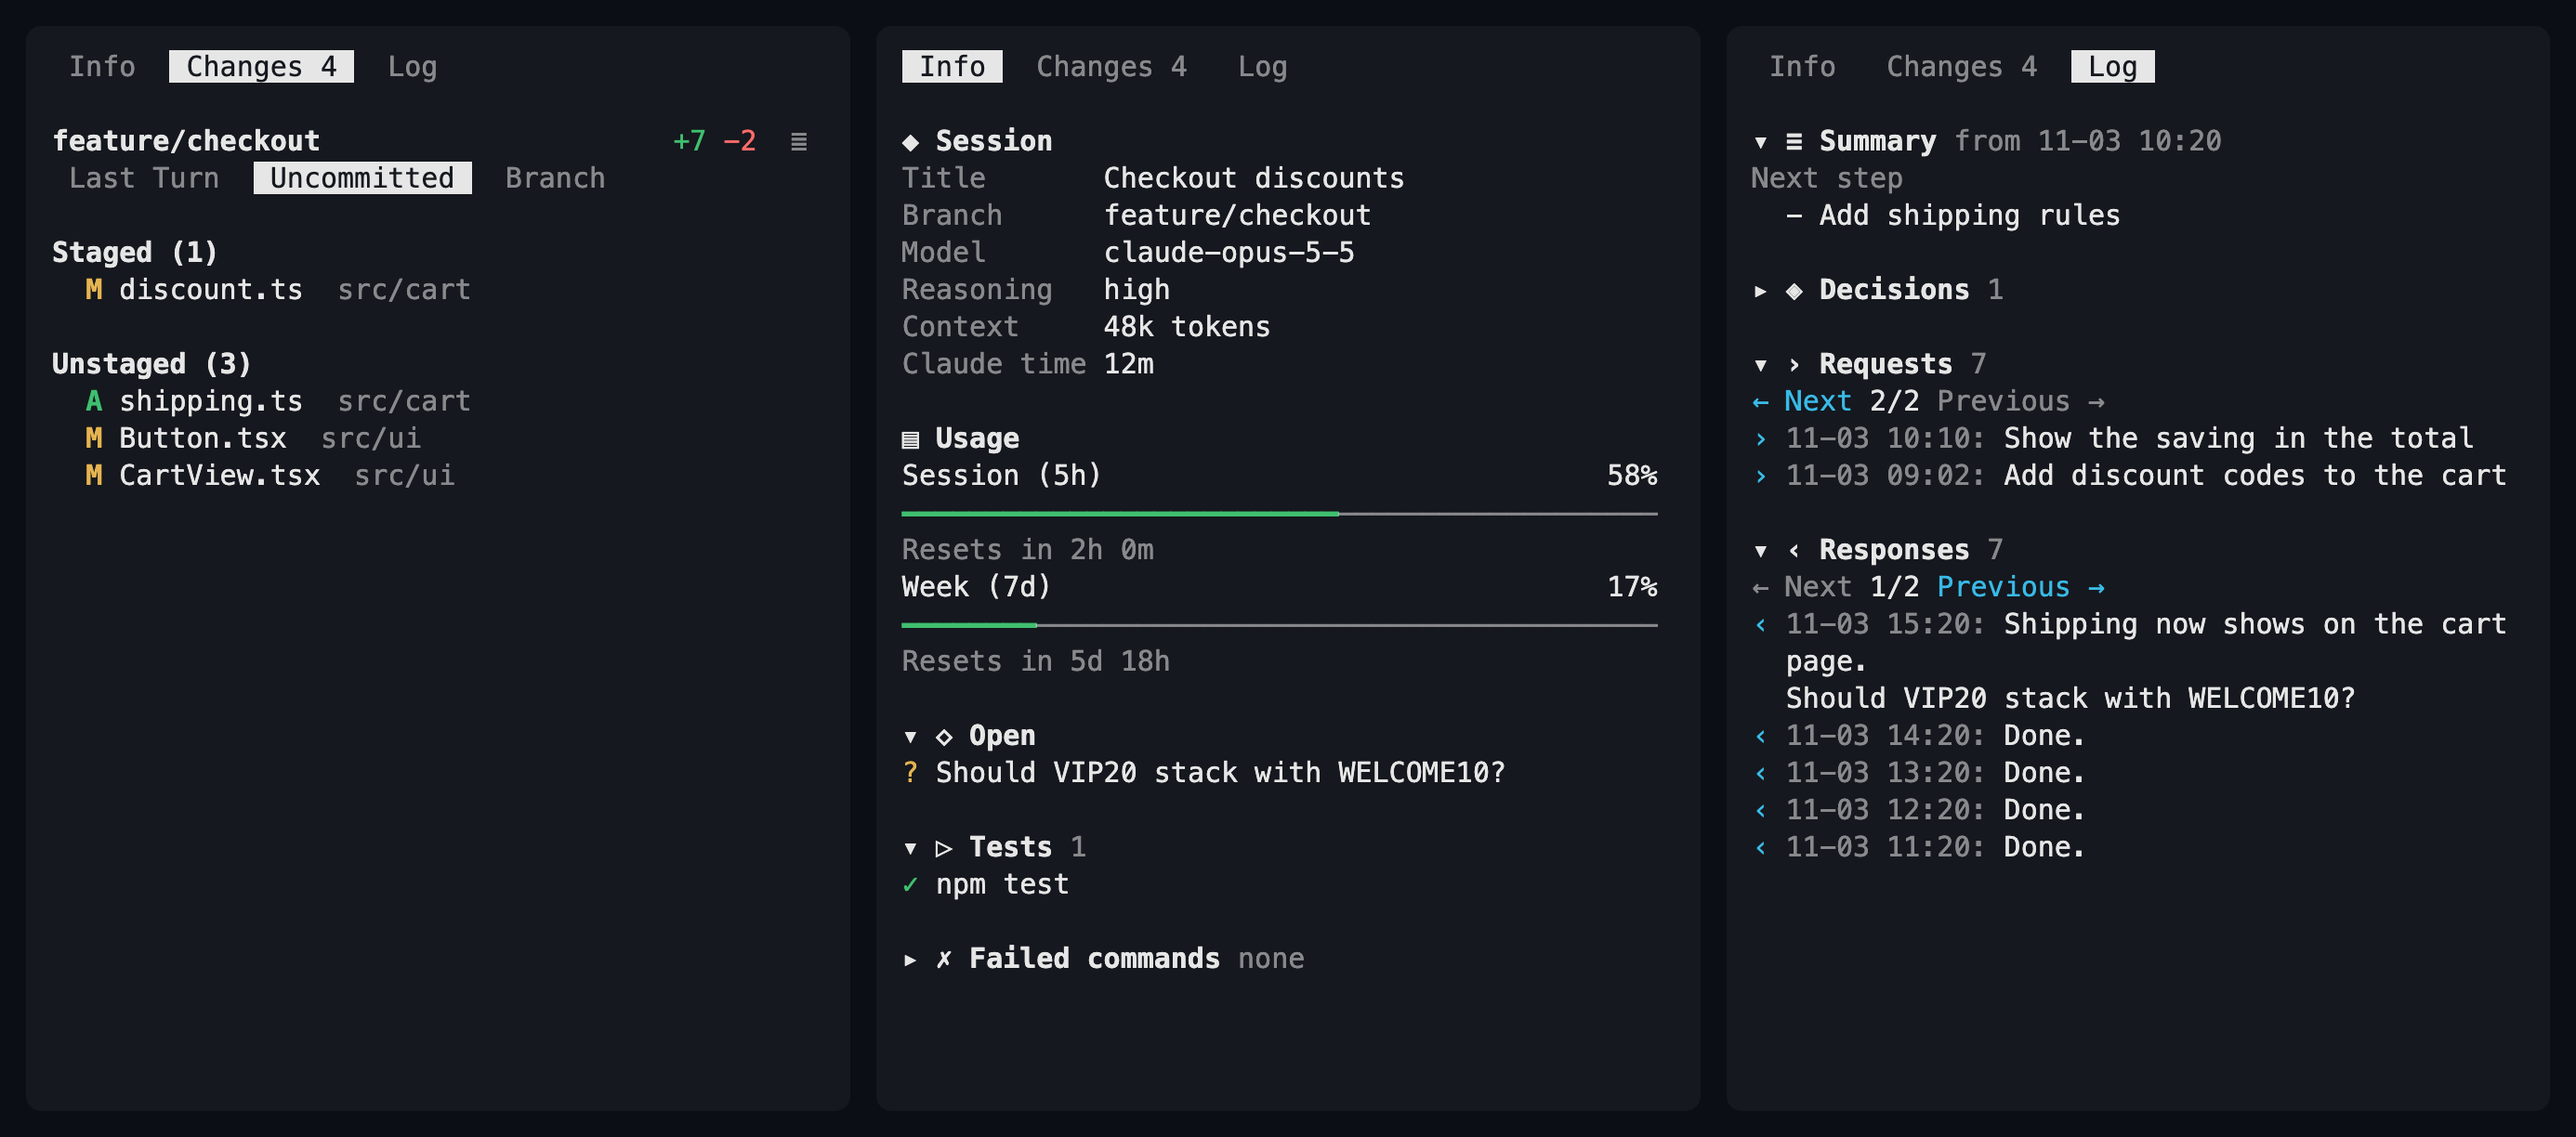
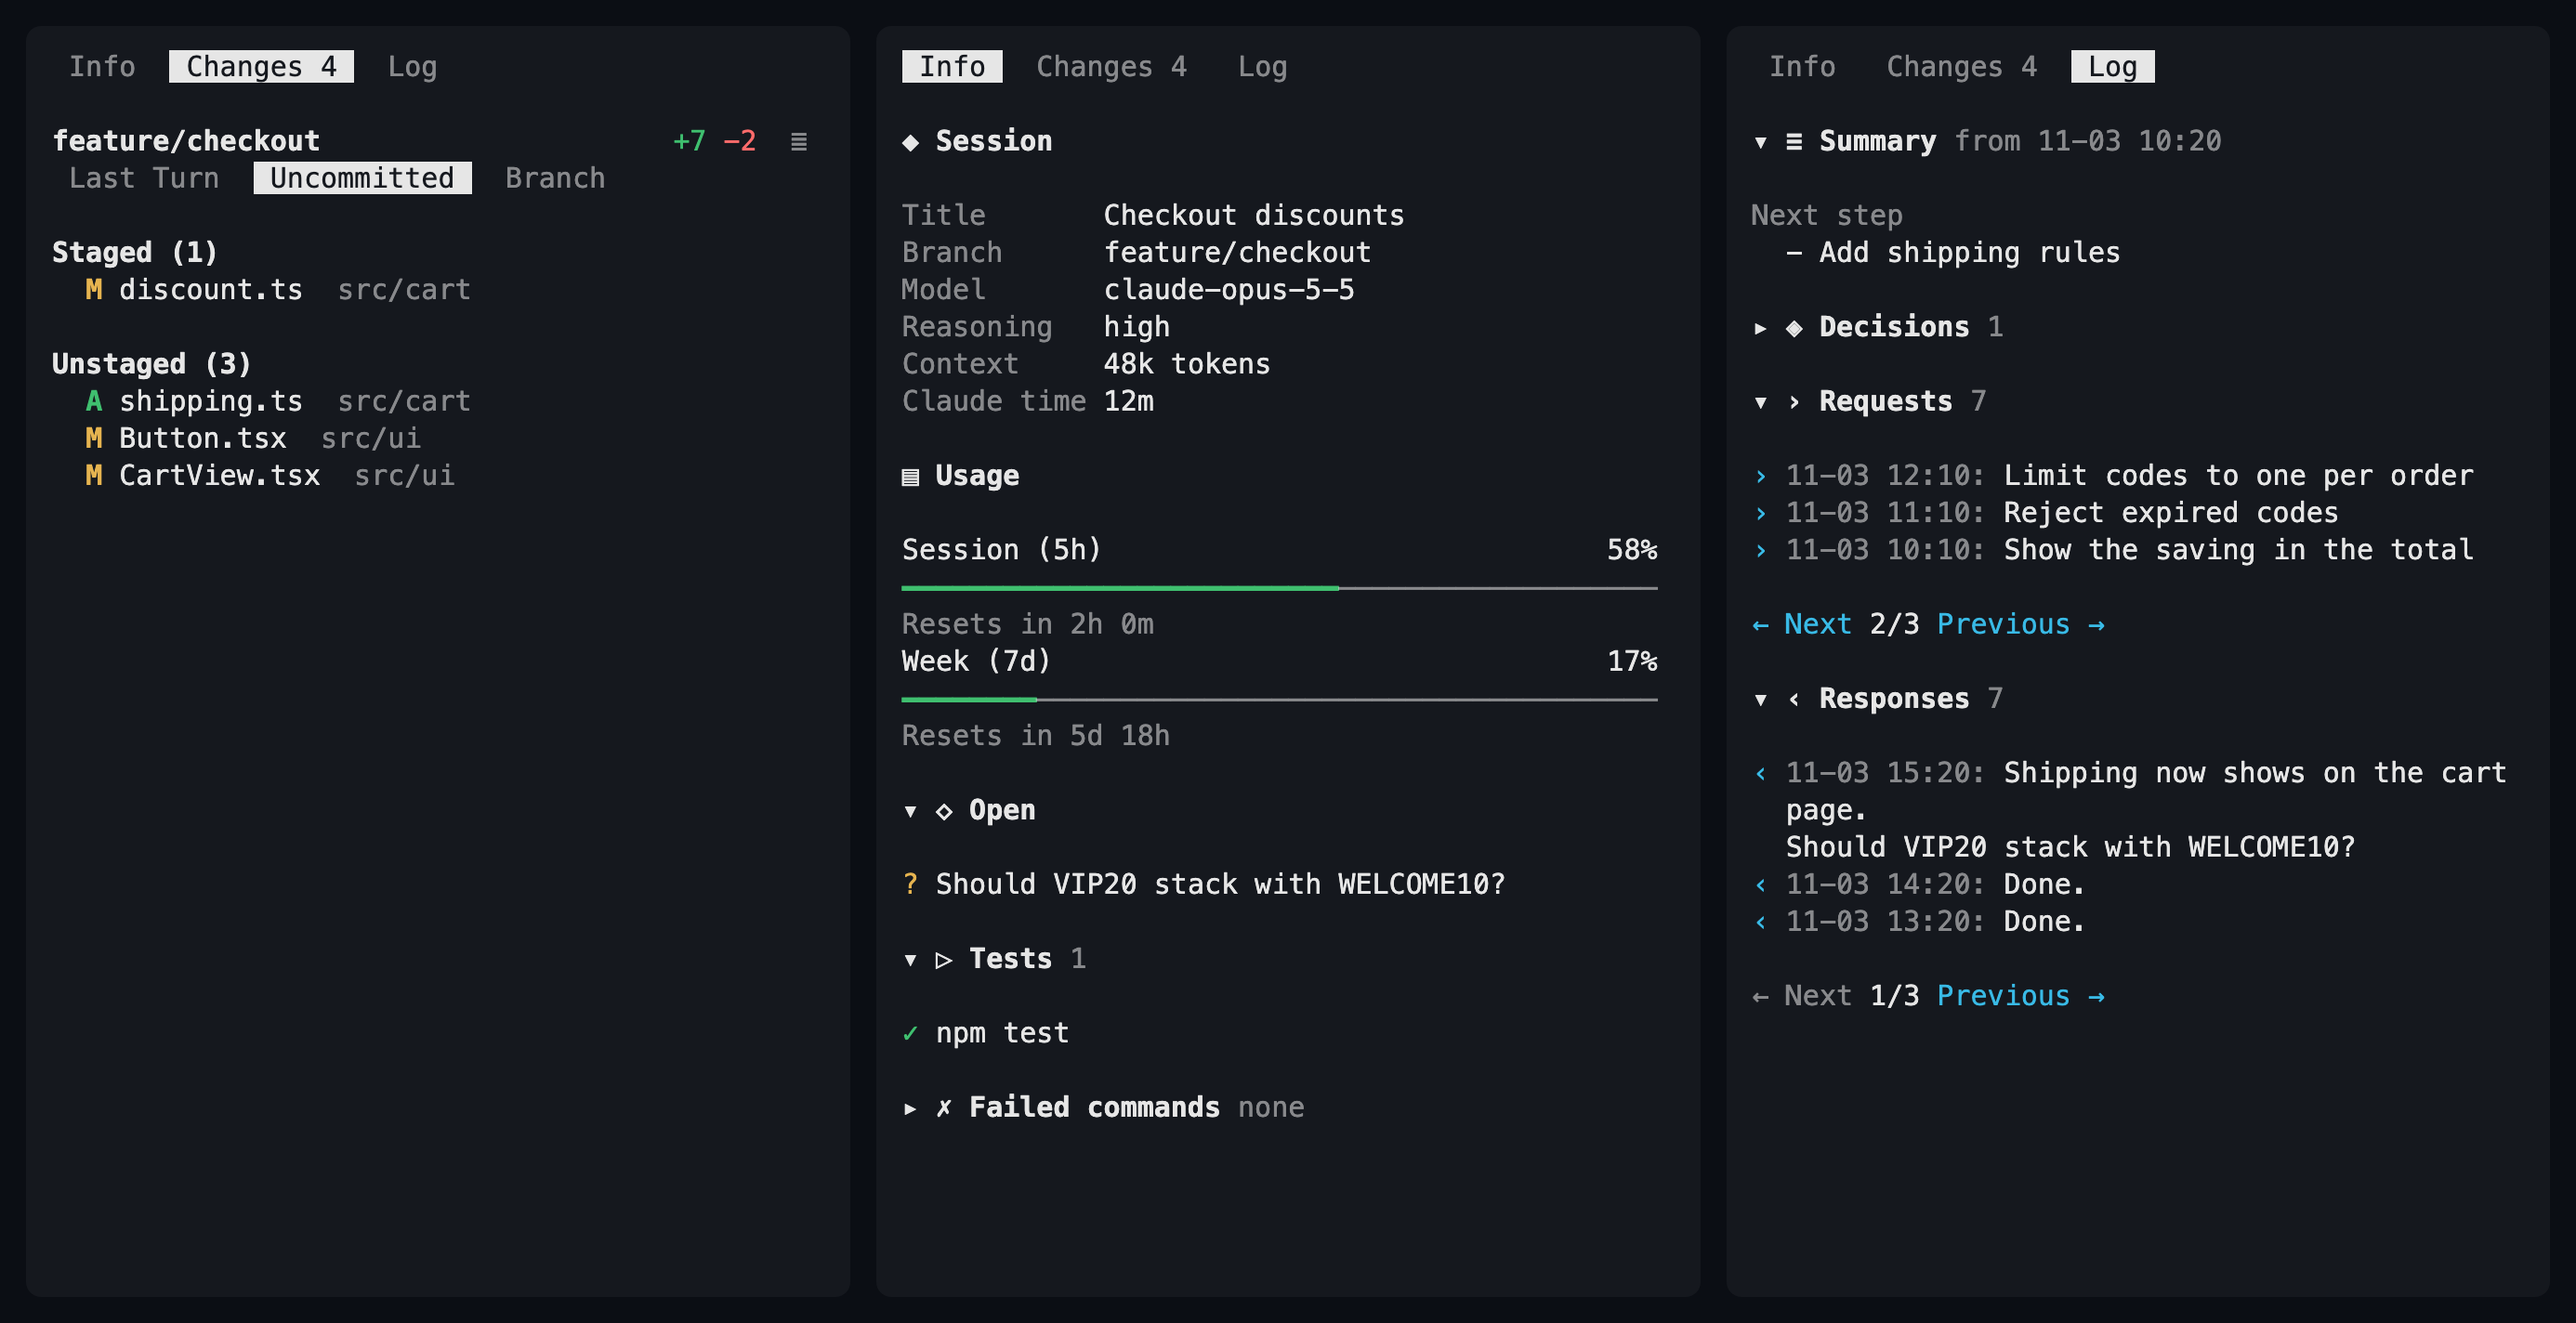
feat: open cc-sidecar on Info and tidy the Log's pages
The Log shows 3 entries a page with the pager after them, and a blank row separates the pager and every section title from their content.

diff --git a/cc-sidecar/README.md b/cc-sidecar/README.md
@@ -11,9 +11,8 @@ The pane has three tabs, redrawn every 2 seconds.
 
 ## Changes
 
-Opens first. The top row shows the branch, its added and removed lines, and
-`≣`, which switches between a list and a folder tree. Below it are three
-scopes:
+The top row shows the branch, its added and removed lines, and `≣`, which
+switches between a list and a folder tree. Below it are three scopes:
 
 | Scope | What it lists | Where it comes from |
 | --- | --- | --- |
@@ -32,7 +31,7 @@ update to it can empty this scope and the Info and Log tabs.
 
 ## Info
 
-Open, Tests and Failed commands fold; see [Folding](#folding).
+Opens first. Open, Tests and Failed commands fold; see [Folding](#folding).
 
 | Section | What's in it |
 | --- | --- |
@@ -46,7 +45,7 @@ Open, Tests and Failed commands fold; see [Folding](#folding).
 
 What was said and decided. Summary has its local date and time in its title.
 The other three sections start each entry with theirs, run newest first and show
-5 entries a page. All four fold.
+3 entries a page. All four fold.
 
 | Section | What's in it |
 | --- | --- |
@@ -55,9 +54,9 @@ The other three sections start each entry with theirs, run newest first and show
 | **Requests** | Your prompts, including slash commands and messages sent while Claude worked. Up to 6 rows each |
 | **Responses** | Claude's final text in each turn, which changes while the turn runs. Up to 8 rows each, read from the first 2,000 characters |
 
-A section with more than one page has `← Next 2/10 Previous →` under its
-heading. Previous goes to earlier entries and Next to later ones. Click them, or
-highlight the section and press `]` or `[`. The page isn't saved.
+A section with more than one page ends with `← Next 2/10 Previous →`. Previous
+goes to earlier entries and Next to later ones. Click them, or highlight the
+section and press `]` or `[`. The page isn't saved.
 
 ## Where Info and Log get their data
 
